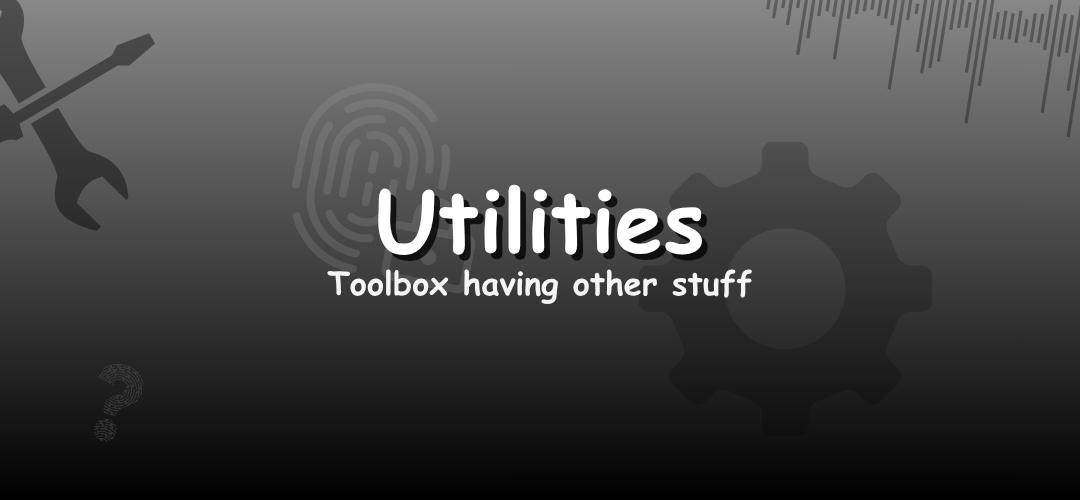
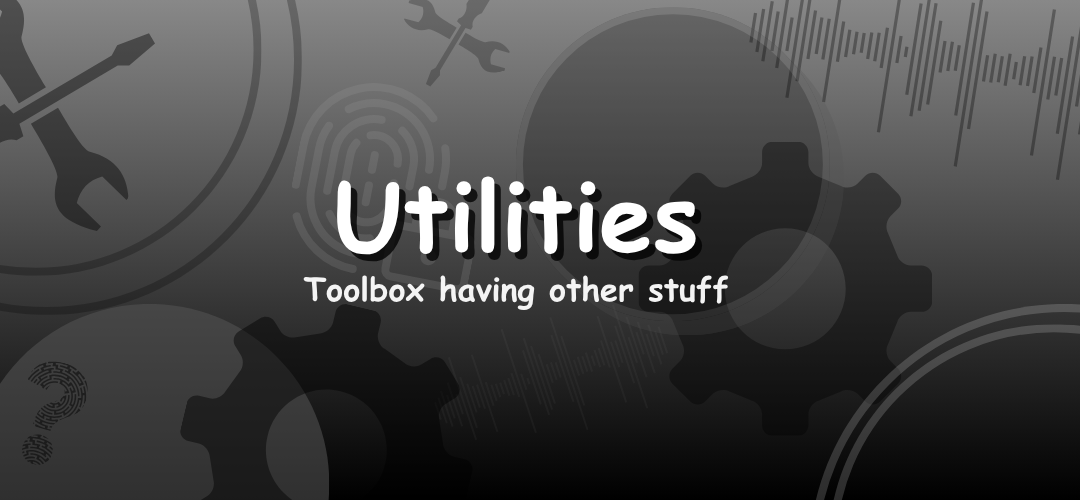
Refactor code structure for improved readability and maintainability

diff --git a/utilities.html b/utilities.html
@@ -10,6 +10,7 @@
 			href="https://fonts.googleapis.com/css2?family=Mali:ital,wght@0,200;0,300;0,400;0,500;0,600;0,700;1,200;1,300;1,400;1,500;1,600;1,700&display=swap"
 			rel="stylesheet"
 		/>
+		<link rel="shortcut icon" href="favicon.png" type="image/png" />
 		<title>Utilities by TheRealSamkit</title>
 	</head>
 	<body class="flex">
@@ -23,10 +24,10 @@
 					><img src="assets/games.png" alt="games page therealsamkit" class="img"
 				/></a>
 				<a href="https://therealsamkit.github.io/todo_app/" class="imgCon flex"
-					><img src="assets/Task APP.png" alt="KanbanTask App therealsamkit" class="img"
+					><img src="assets/task_app.png" alt="KanbanTask App therealsamkit" class="img"
 				/></a>
 				<a href="https://therealsamkit.github.io/QuizApp/" class="imgCon flex"
-					><img src="assets/Quiz App.png" alt="quizApp therealsamkit" class="img"
+					><img src="assets/quiz_app.png" alt="quizApp therealsamkit" class="img"
 				/></a>
 			</div>
 		</main>

diff --git a/index.html b/index.html
@@ -30,11 +30,7 @@
 					><img src="assets/Spell Gyaan.jpg" alt="SpellGyaan" class="img"
 				/></a>
 				<a href="https://therealsamkit.github.io/RockPaperScissors/" class="imgCon flex">
-					<img
-						src="assets/Rock Paper.jpg"
-						alt="Rock Paper Scissors
-          Game"
-						class="img" /></a
+					<img src="assets/Rock Paper.jpg" alt="Rock Paper Scissors Game" class="img" /></a
 				><a href="https://therealsamkit.github.io/ThalaForAReason/" class="imgCon flex">
 					<img src="assets/Thalavity Checker.jpg" alt="ThalaForAReason" class="img"
 				/></a>

diff --git a/style.css b/style.css
@@ -34,8 +34,8 @@ h1 {
 }
 
 img {
-	height: 9rem;
-	width: 22rem;
+	height: 11rem;
+	width: 29rem;
 	object-fit: cover;
 	border-radius: 20px;
 	border: 5px solid white;
@@ -43,8 +43,8 @@ img {
 }
 
 .imgCon {
-	height: 9rem;
-	width: 21rem;
+	height: 11rem;
+	width: 29rem;
 	border-radius: 20px;
 	text-align: center;
 	overflow: hidden;
